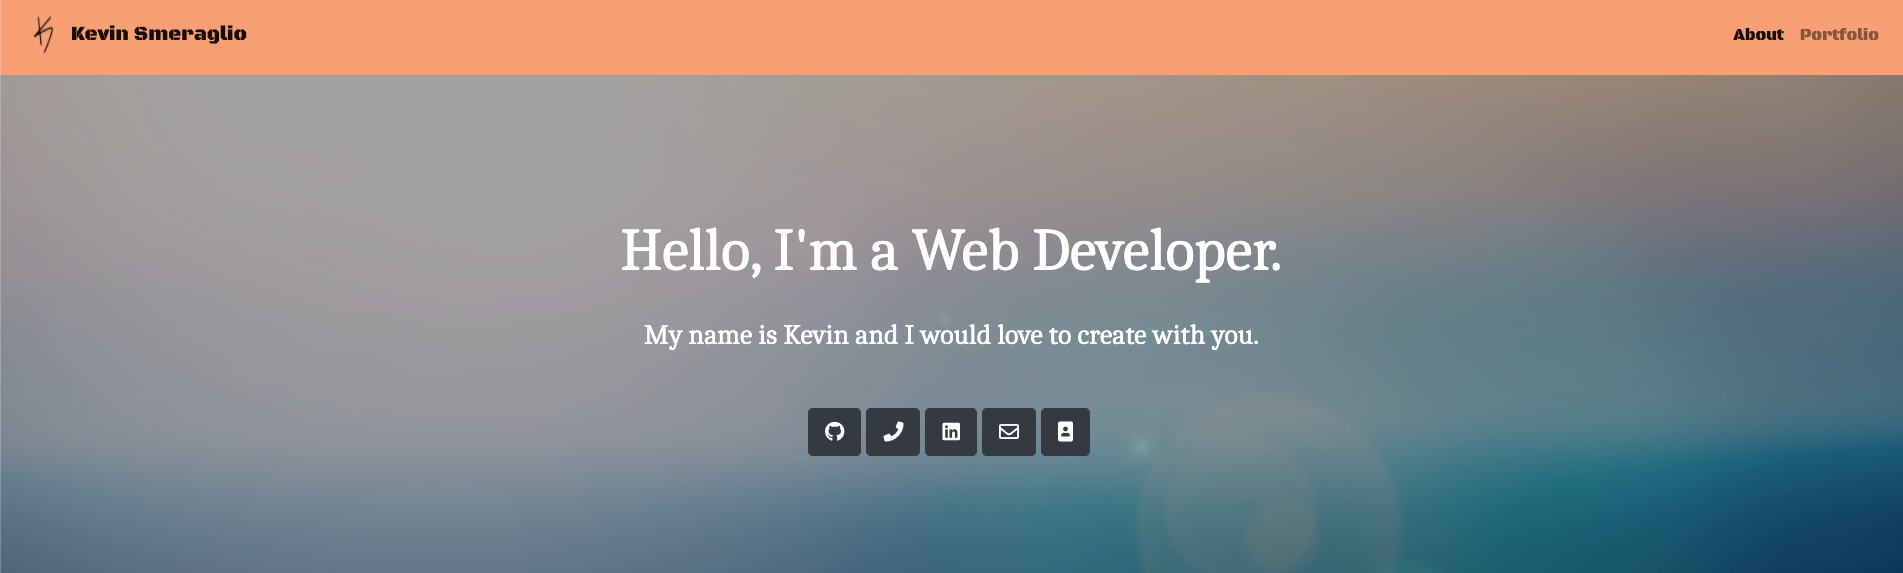
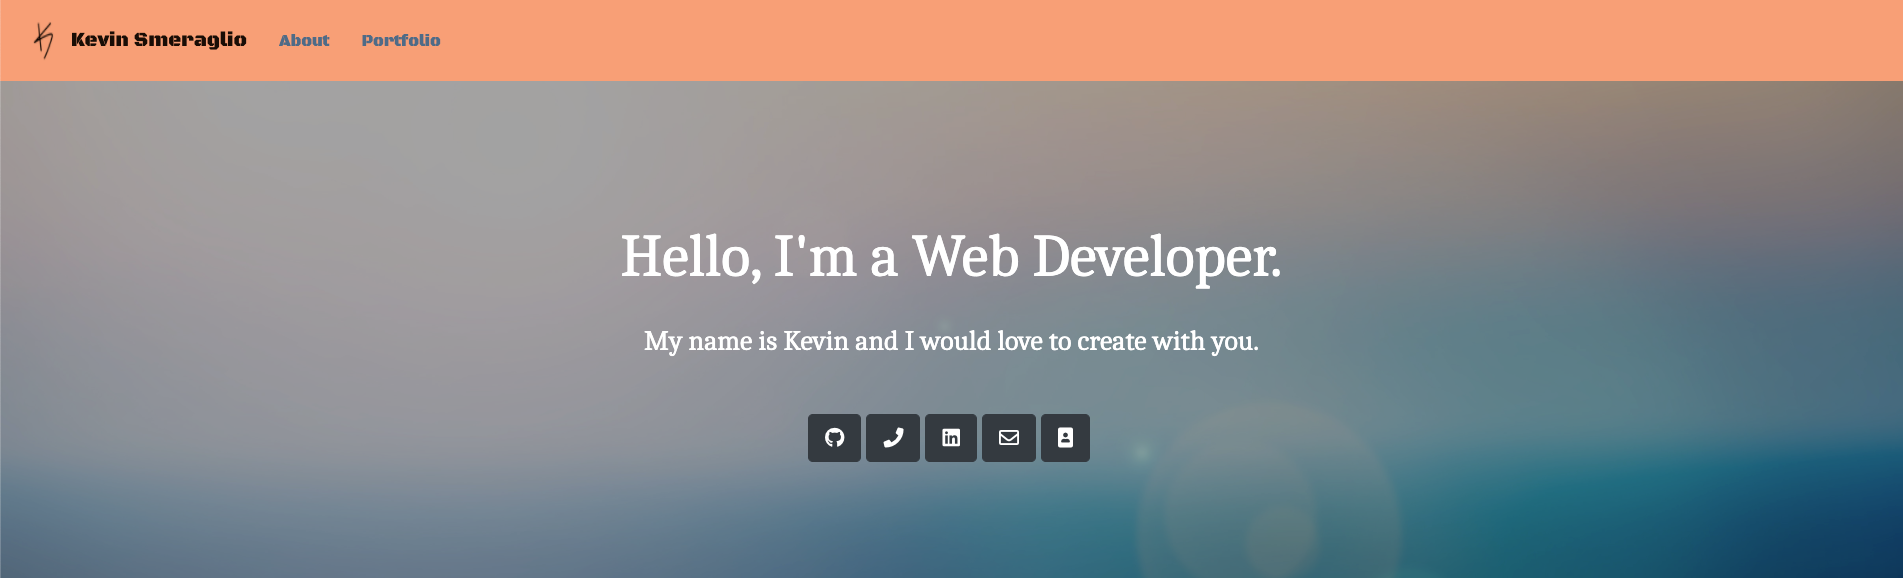
mobile responsive, updated formatting

diff --git a/src/components/Navbar/index.js b/src/components/Navbar/index.js
@@ -1,41 +1,26 @@
-import React from "react";
-import { Link } from "react-router-dom";
+import React, { useState } from "react";
+// import { Link } from "react-router-dom";
 import "./style.css";
 
 // Depending on the current path, this component sets the "active" class on the appropriate navigation link item
-function Navbar() {
+const Navbar = () => {
+  const [isNavCollapsed, setIsNavCollapsed] = useState(true);
+
+  const handleNavCollapse = () => setIsNavCollapsed(!isNavCollapsed);
+
   return (
-    <nav className="navbar navbar-expand-lg navbar-light headerColor navbarFont justify-content-end">
-      <Link className="navbar-brand" to="/"><img className="iconKs" src="./assets/kslogo.png" alt="KS"></img>
-      Kevin Smeraglio
-      </Link>
-      <div className="nav item ml-auto mr-1"></div>
-      <div className="navbar-toggler" type="button" data-toggle="collapse" data-target="#navbarSupportedContent">
-        <span className="navbar-toggler-icon"></span>
-      </div>
-      <div className="collapse navbar-collapse flex-grow-0" id="navbarSupportedContent">
-        <ul className="navbar-nav text-center">
-          <li className="nav-item">
-            <Link
-              to="/"
-              className={
-                window.location.pathname === "/" || window.location.pathname === "/about"
-                  ? "nav-link active"
-                  : "nav-link"
-              }
-            >
-              About
-            </Link>
-          </li>
-          <li className="nav-item">
-            <Link
-              to="/discover"
-              className={window.location.pathname === "/discover" ? "nav-link active" : "nav-link"}
-            >
-              Portfolio
-            </Link>
-          </li>
-        </ul>
+    <nav className="navbar navbar-expand-lg navbar-light headerColor navbarFont">
+      <a className="navbar-brand" href="/">
+        <img src="/assets/kslogo.png" alt="iconKS" />
+        <span className="">Kevin Smeraglio</span>
+      </a>
+      <button class="custom-toggler navbar-toggler" type="button" data-toggle="collapse" data-target="#navbarsExample09" aria-controls="navbarsExample09" aria-expanded={!isNavCollapsed ? true : false} aria-label="Toggle navigation" onClick={handleNavCollapse}>
+        <span class="navbar-toggler-icon"></span>
+      </button>
+
+      <div className={`${isNavCollapsed ? 'collapse' : ''} navbar-collapse`} id="navbarsExample09">
+        <a className="nav-link text-center navbarFont" href="/">About</a>
+        <a className="nav-link text-center navbarFont" href="/discover">Portfolio</a>
       </div>
     </nav>
   );
